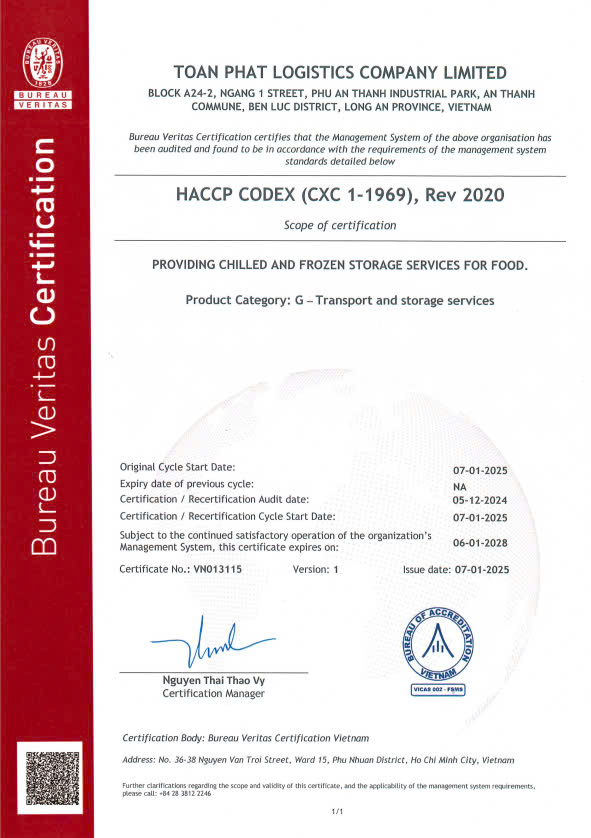
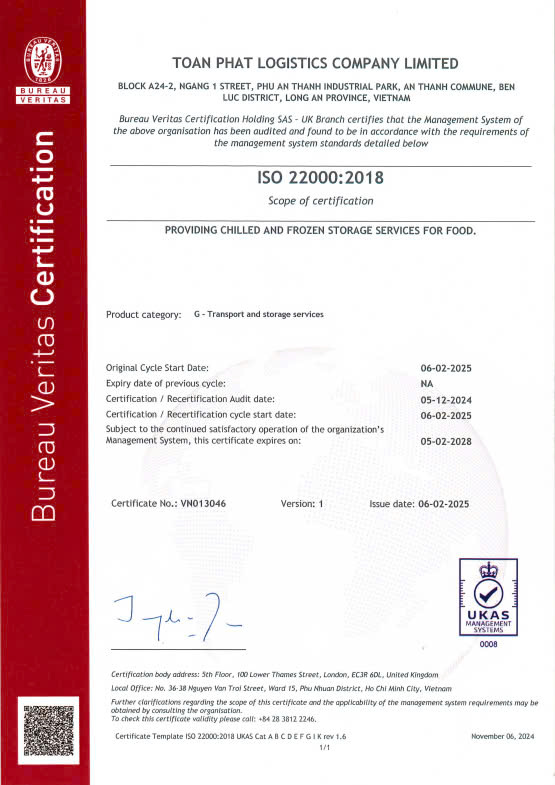
new cert

Changed region(s): [[0.0, 0.0, 0.9495, 1.0], [0.2144, 0.0611, 0.9495, 0.3669], [0.3676, 0.3975, 0.582, 0.428]]

diff --git a/src/pages/home/index.js b/src/pages/home/index.js
@@ -262,7 +262,7 @@ export default function Home({isMobile, ...otherProps}) {
 
     const certificateLocale = certificate.find(item => item.locale === locale);
     const CertificationImages = [];
-    for (let i = 0; i < 5; i++) {
+    for (let i = 0; i < 6; i++) {
         const certificateImage = require(`@assets/certificate/cert-${i+1}.png`);
         CertificationImages.push(certificateImage);
     }
@@ -591,8 +591,8 @@ export default function Home({isMobile, ...otherProps}) {
             {/*End Company Culture Section*/}
             <div ></div>
             {/*Certification Section*/}
-            <div  className="flex flex-col w-full items-center justify-center m-auto h-auto mt-12">
-                <div className="w-4/5">
+            <div  className="flex flex-col  w-full items-center justify-center m-auto h-auto mt-12">
+                <div className="w-full">
                     <h2 data-aos={animation} data-aos-duration={duration} className="text-3xl text-center font-bold text-green-800 ">
                         {certificateLocale.titleMain}
                     </h2>
@@ -600,7 +600,7 @@ export default function Home({isMobile, ...otherProps}) {
                         {certificateLocale.desc}
                     </div>
                 </div>
-                <div className="flex flex-col lg:flex-row w-4/5">
+                <div className="flex flex-col lg:flex-row w-full">
                     {CertificationImages.map((item, index) => (
                         <div data-aos={animation} data-aos-duration={duration} data-aos-delay={delay*index} key={index} className="m-2 w-full">
                             <div className="flex flex-col ">
@@ -622,7 +622,7 @@ export default function Home({isMobile, ...otherProps}) {
                         </div>
                     ))}
                 </div>
-            </div>          
+            </div>
             {/*End Certification Section*/}
 
             {/*Partners Section*/}

diff --git a/src/constants/language-option.js b/src/constants/language-option.js
@@ -359,6 +359,10 @@ export const certificate = [
       },
       {
         title: 'Tên',
+        desc: `Bureau Veritas công nhận Nhà máy Chiếu xạ Toàn Phát đạt tiêu chuẩn Hệ thống quản lý chất lượng quốc tế ISO 9001:2018 `,
+      },
+      {
+        title: 'Tên',
         desc: `Bureau Veritas đánh giá và công nhận Kho Lạnh Toàn Phát đạt chuẩn ISO 22000:2018 trong dịch vụ lưu trữ thực phẩm ở điều kiện mát và đông lạnh.`,
       },
       {
@@ -385,6 +389,10 @@ export const certificate = [
       {
         title: 'Tên',
         desc: `Bureau Veritas certifies that Toan Phat Irradiation meets the international standard of the ISO 9001:2015 Quality Management System.`,
+      },
+      {
+        title: 'Tên',
+        desc: `Bureau Veritas certifies that Toan Phat Irradiation meets the international standard of the ISO 9001:2018 Quality Management System.`,
       },
       {
         title: 'Tên',
